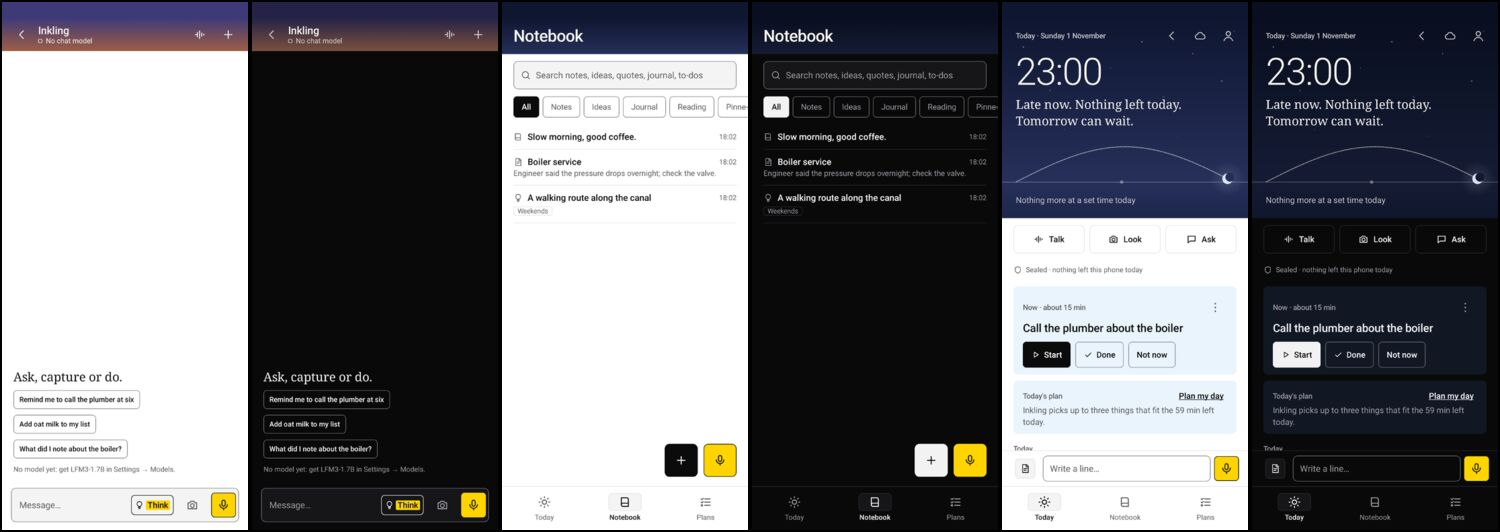
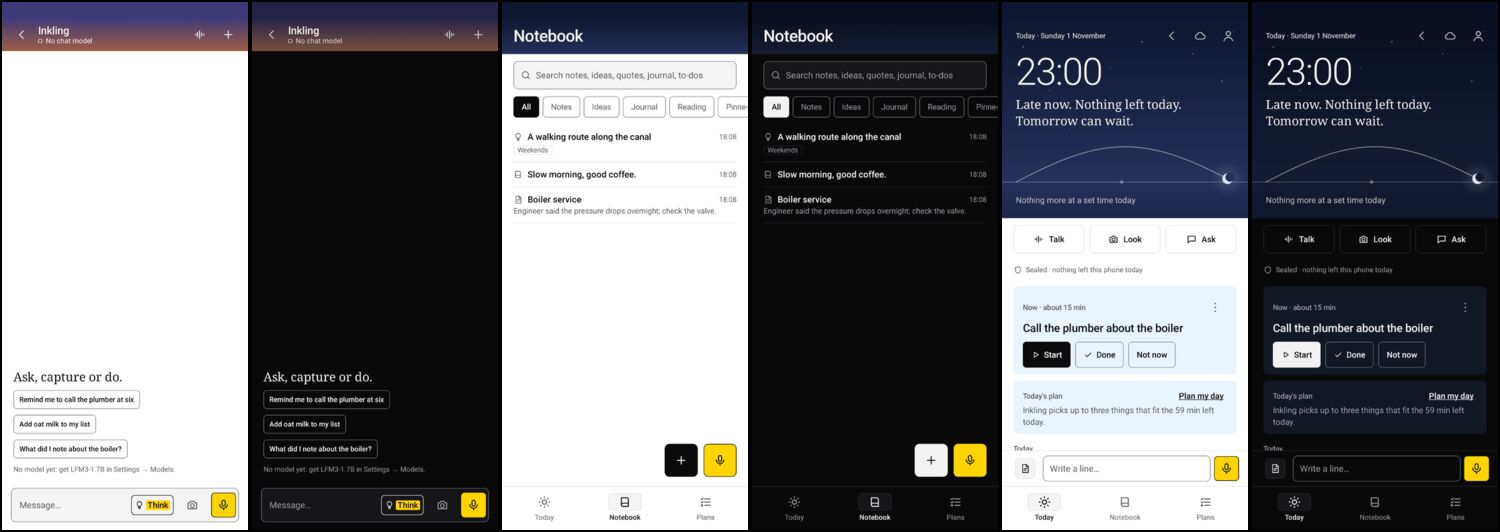
LFMP-17: screenshots with animations off (rows drawn where they land), menu edge in the line colour

Changed region(s): [[0.3373, 0.2406, 0.6747, 0.4211]]

diff --git a/app/src/main/java/com/lfmpixel/lfm/ui/components/Surfaces.kt b/app/src/main/java/com/lfmpixel/lfm/ui/components/Surfaces.kt
@@ -106,7 +106,7 @@ fun FlatSheet(onDismiss: () -> Unit, content: @Composable ColumnScope.() -> Unit
 fun Menu(expanded: Boolean, onDismiss: () -> Unit, content: @Composable ColumnScope.() -> Unit) {
     val c = Lfm.c
     DropdownMenu(expanded, onDismiss, shape = LfmShape.card, containerColor = c.bg, tonalElevation = 0.dp, shadowElevation = 0.dp,
-        border = androidx.compose.foundation.BorderStroke(1.dp, c.control), content = content)
+        border = androidx.compose.foundation.BorderStroke(1.dp, c.line), content = content)
 }
 
 /** One line of a [Menu], with its icon. */

diff --git a/app/src/test/java/com/lfmpixel/lfm/ui/ScreenshotTest.kt b/app/src/test/java/com/lfmpixel/lfm/ui/ScreenshotTest.kt
@@ -57,6 +57,9 @@ class ScreenshotTest {
 
     @Before fun setUp() {
         at(10)
+        // Animations off (as "Remove animations" does), so rows and highlights are drawn where they land, not mid-fade.
+        android.provider.Settings.Global.putFloat(ApplicationProvider.getApplicationContext<LfmApp>().contentResolver,
+            android.provider.Settings.Global.ANIMATOR_DURATION_SCALE, 0f)
         val today = LocalDate.now().atStartOfDay(ZoneId.systemDefault()).toInstant().toEpochMilli()
         runBlocking {
             val e = g.db.entries()
